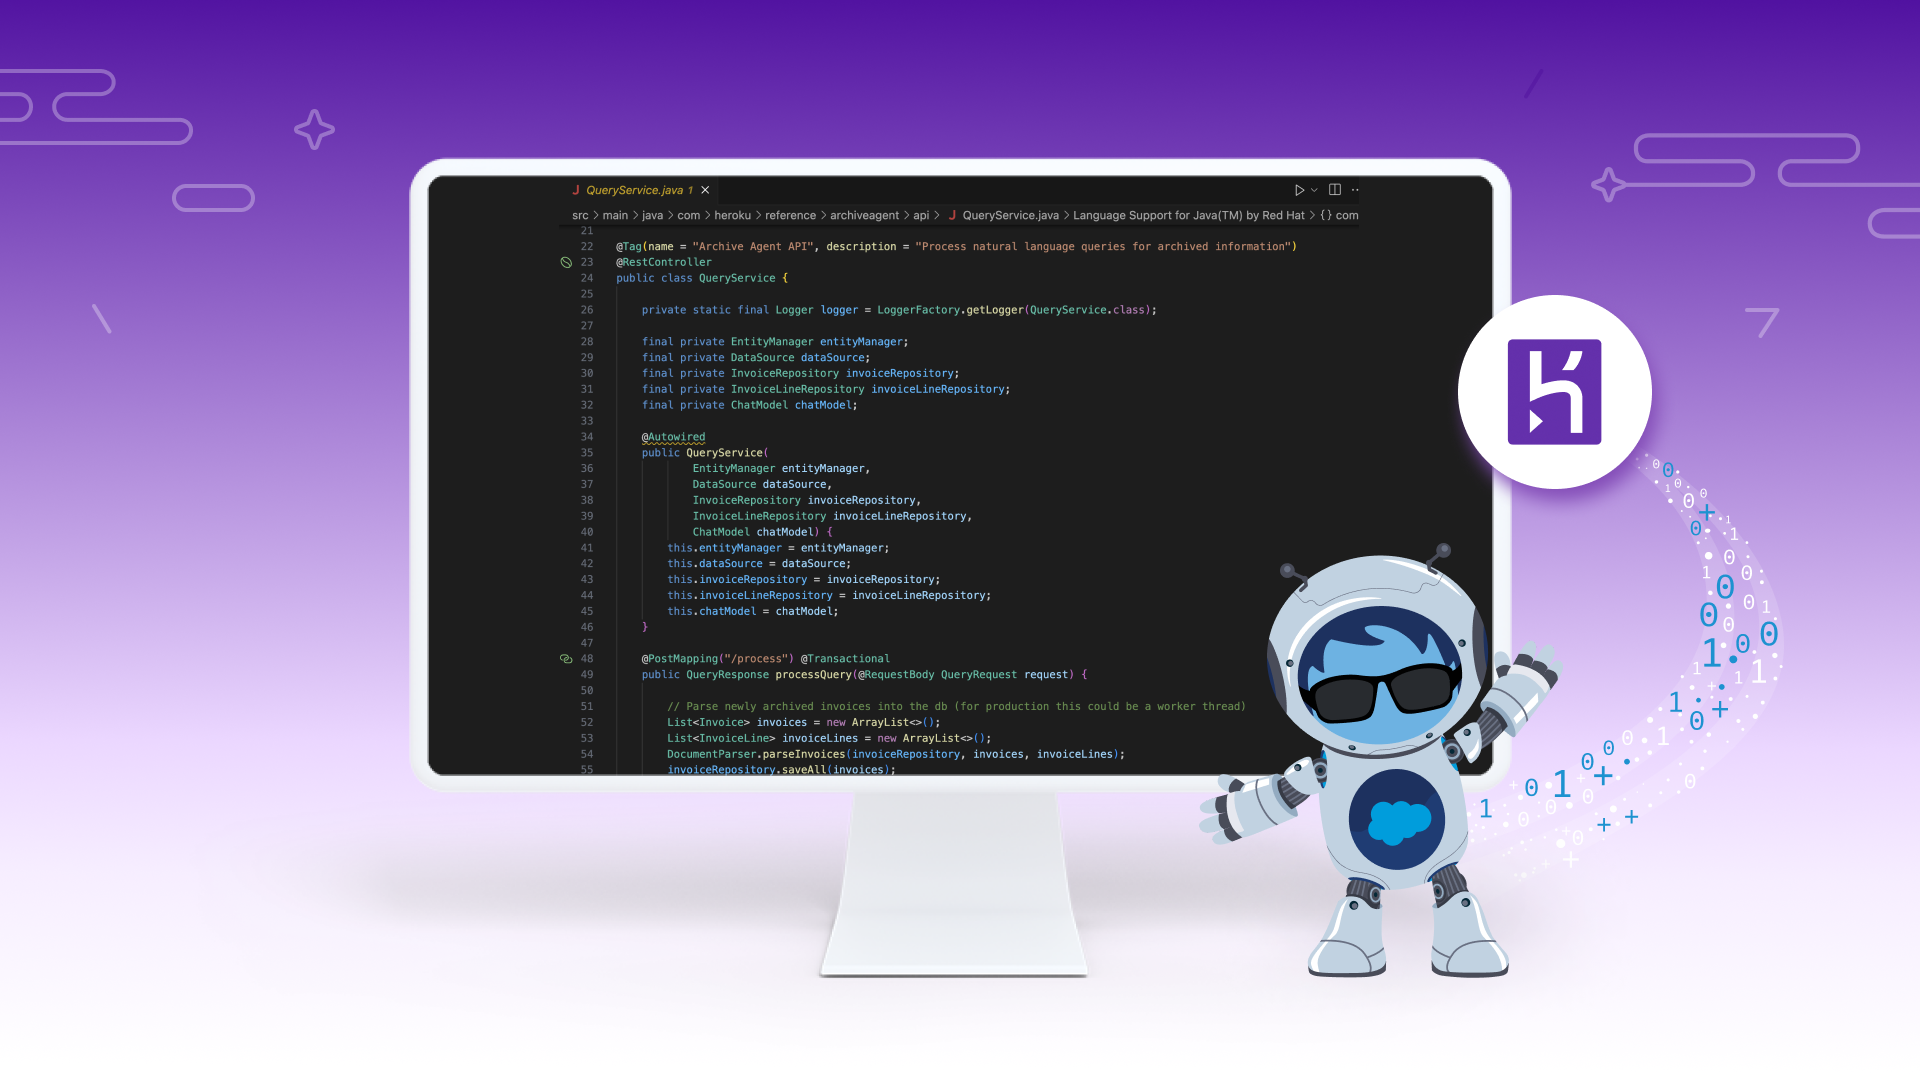
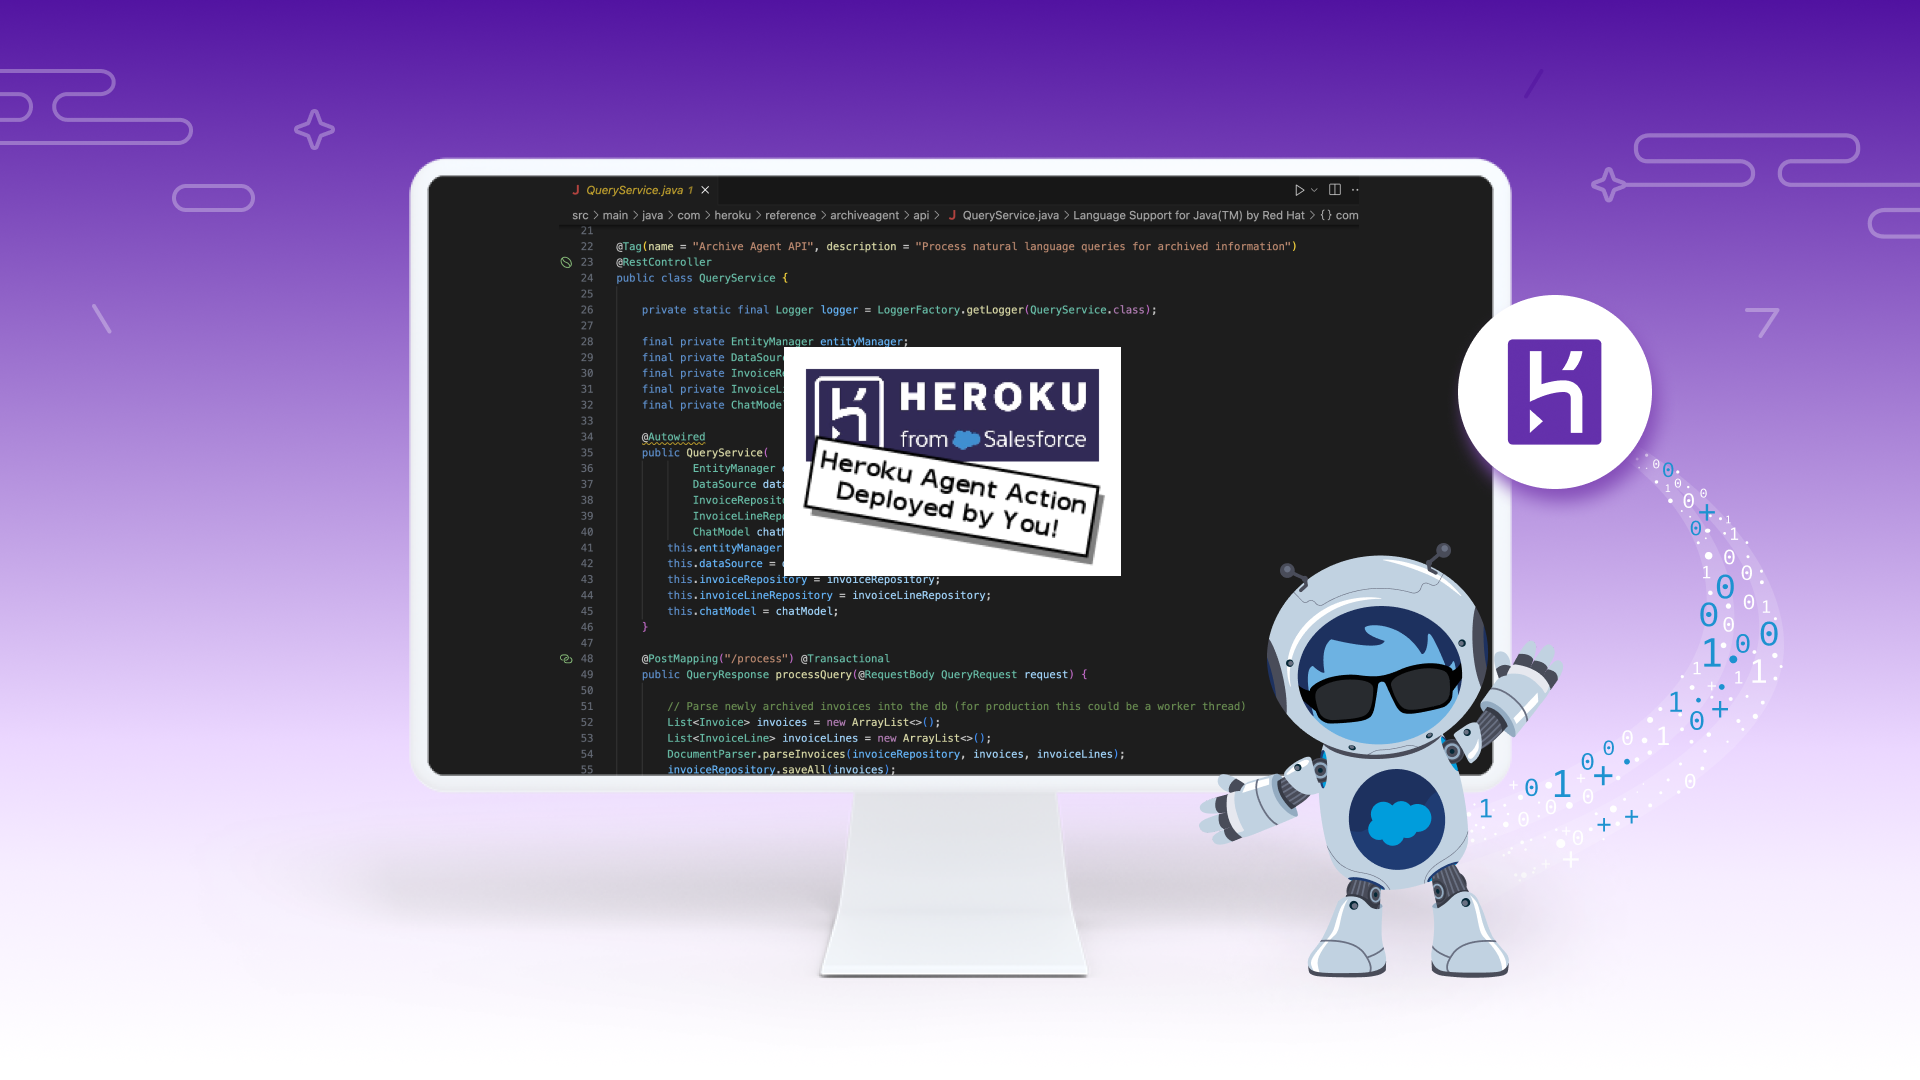
updates

Changed region(s): [[0.4062, 0.3056, 0.5938, 0.55]]

diff --git a/README.md b/README.md
@@ -1,7 +1,9 @@
 Creating Agentforce Custom Actions with Heroku
 ==============================================
 
-This tutorial will guide you through how to configure an Agentforce Action deployed to Heroku within your Salesforce org. This allows Agentforce agents to access powerful custom coded actions written in Python and other languages that take advantage Heroku's fully managed and elastic compute service. 
+This tutorial will guide you through how to configure an Agentforce Action deployed to Heroku within your Salesforce org. This allows Agentforce agents to access powerful custom coded actions written in Python and other languages that take advantage Heroku's fully managed and elastic compute service. At the end of it you will be able to generate your own badge as shown below!
+
+> Ensure you have access to Agentforce by searching for `Agents` in the `Setup` menu. If not, you can create a temporary org by logging into Trailhead and creating a Playground per the instructions [at the top of this module](https://trailhead.salesforce.com/content/learn/projects/quick-start-explore-the-coral-cloud-sample-app/deploy-the-coral-cloud-sample-app) (you do not need to complete the module). Once you have access to the org, locate `Einstein Setup` under the `Setup` menu and enable Einsten, which will also enable Agentforce.
 
 <img src="images/main.png" width="80%" alt="Image description">
 
@@ -12,7 +14,7 @@ The examples in this tutorial are intentially basic to allow you a clean startin
 
 | Example | Demo Video |  | Related Content
 | ------- | ---------- | ---------- | ---------------
-| The **Archive Agent** action demonstrates using Heroku to access and perform complex comput over unstructed archived data using the [Einstein AI LLM Gateway](https://developer.salesforce.com/blogs/2023/08/building-ai-powered-apps-with-llms-and-einstein) to interpret naturla language requests to perform dynamic calculations. | [Link](https://youtu.be/mNgrdf1GX-w)| <img src="images/archiveagent2.png" width="50%" alt="Image description"> | [Blog](https://blog.heroku.com/building-supercharged-agents-heroku-agentforce) [Code](https://github.com/heroku-examples/agentforce-collage-agent)
+| The **Archive Agent** action demonstrates using Heroku to access and perform complex compute over unstructed archived data using AI to interpret natural language requests from the user to perform a wider array of dynamic calculations on the data. | [Link](https://youtu.be/mNgrdf1GX-w)| <img src="images/archiveagent2.png" width="50%" alt="Image description"> | [Blog](https://blog.heroku.com/building-supercharged-agents-heroku-agentforce) [Code](https://github.com/heroku-examples/agentforce-collage-agent)
 | With the **Coral Cloud Collage Agent** we explore how the Coral Cloud Resort invites its guests to browse and book unique experiences throughout their stay using Agentforce. With Heroku, we extend the agents functionality to generate a personalized collage of each guest's adventures, showcasing how custom code deployed on Heroku can create dynamic digital media delivered directly within the Agentforce experience. | [Link](https://www.youtube.com/watch?v=yd97A9GLFUA&t=3s)| ![image](images/collage2.jpg) ![image](images/collage.png) | [Code](https://github.com/heroku-examples/agentforce-collage-agent)
 
 
@@ -21,7 +23,7 @@ Step 1 - Action API URL
 
 This tutorial provides examples in Java and Python on how to code a basic Agentforce action. You can deploy these to your own Heroku account or proceed for now with the predeployed versions we have created for you.
 
-| Language | Predeployed API URL | Predployed API Test Page | Or Deploy your Own to Heroku
+| Language | Predeployed API URL | Predeployed API Test Page | Or Deploy your Own to Heroku
 | -------- | --------------- | ------------------- | -----------
 | Python | [Action API URL](https://agentforce-tutorial-python-7894e9215571.herokuapp.com/) | [Action API Test Page](https://agentforce-tutorial-python-7894e9215571.herokuapp.com/) | Go to this [GitHub Repository](https://github.com/heroku-examples/heroku-agentforce-tutorial-python)
 | Java | [Action API URL](https://agentforce-tutorial-java-fd05948b2c0a.herokuapp.com) | [Action API Test Page](https://agentforce-tutorial-java-fd05948b2c0a.herokuapp.com/swagger-ui/index.html) | Go to this [GitHub Repository](https://github.com/heroku-examples/heroku-agentforce-tutorial-java)
@@ -33,24 +35,136 @@ With the above information you have two paths to take:
 Step 2 - Creating a Named Credential
 ------------------------------------
 
-Bla bla bla
+1. Search for `Named Credentials` under `Setup` and select the `External Credentials` tab and click `New`, completing the dialog as shown.
+
+    <img src="images/step2-1.jpg" width="50%" alt="Image description">
+
+2. Scroll down the next page to the `Principles` section and click `New`, completing the dialog as shown.
+
+    <img src="images/step2-2.jpg" width="50%" alt="Image description">
+
+    > The default password for this tutorial is `agent`.
+
+3. Search for `Named Credentials` under `Setup` and select the 'Named Credentials' tab and click `New`, completing the dialog as shown.
+
+    <img src="images/step2-3.jpg" width="50%" alt="Image description">
+
+    > To obtain the URL value right click the desired `Predeployed API URL` above or use the one given to you after completing your own Heroku deployment. The one shown the screenshot above is the Java predeployment.
 
 Step 3 - Registering the Action API
 -----------------------------------
 
-Bla bla bla
+1. Search for `External Services` under `Setup` and click `Add an External Service` then select `From API Specification` and click `Next`, completing the dialog as shown then `Save & Next`.
+
+    <img src="images/step3-1.jpg" width="50%" alt="Image description">
+
+    > To obtain the Schema shown, open the Swagger page for your deployed Action and click the link in the top left corner of the page this will be `/v3/api-docs` (Java) or `/swagger.json` (Python) and copy paste the entire contents. If you have not modified the code, or are using the predeployments above, you can click [here](https://agentforce-tutorial-java-fd05948b2c0a.herokuapp.com/v3/api-docs) (Java) or [here](https://agentforce-tutorial-python-7894e9215571.herokuapp.com/swagger.json) (Python).
+
+2. Finally on the next page select the `Operation` shown below and click `Next`.
+
+    <img src="images/step3-2.jpg" width="50%" alt="Image description">
+
+3.  Confirm you can see the input and output parameters as shown below and click `Finish`.
+
+    <img src="images/step3-3.jpg" width="50%" alt="Image description">
 
 Step 4 - Assigning Permissions
 ------------------------------
 
-Bla bla bla
+1. Search for `Permission Sets` under `Setup` and click `New` and complete the page as shown, then click `Save`.
+
+    <img src="images/step4-1.jpg" width="50%" alt="Image description">
+
+2. Locate the `External Credential Principle Access` section and edit it such that it appears as shown.
+
+    <img src="images/step4-2.jpg" width="50%" alt="Image description">
+
+3. Finally, assign the permisison set to your current user using the `Manage Assignments` button.
 
 Step 5 - Creating an Agentforce Action
 --------------------------------------
 
-Bla bla bla
+1. Search for `Flows` under `Setup` and click `New Flow`. Click `Start from Scratch` then `Next` and select `Autolaunched Flow (No Trigger)` then click `Create` to open the `Flow Builder`. 
+
+2. From the `Flow Builder`, open the `Toolbox` by clicking the sidebar icon near the top left of the screen. Click `New Resource` and create the following variable resources.
+
+    | Resource Type | API Name | Data Type | Apex Class | Availability Outside the Flow |
+    | ------------- | -------- | --------- | -----------| ----------------------------- |
+    | Variable | AgentActionRequestName | Text | Not Applicable |Available for Input |
+    | Variable | AgentActionResponseMessage | Text | Not Applicable | Available for Output |
+    | Variable | AgentActionRequest | Apex Defined | ExternalService__HerokuAgentAction_AgentRequest | None |
+
+    Your `Flow` should look like this so far.
+
+    <img src="images/step5-1.jpg" width="50%" alt="Image description">
+
+3. Click the `+` icon in the middle of the canvas and select `Action`. In the `Search Actions` sidebar search for `Heroku`, select the `Post Process` action and complete fields as shown.
+
+    <img src="images/step5-2.jpg" width="50%" alt="Image description">
+
+4. Click the `+` icon **before** the `Call Heroku` element on the canvas and select `Assignment` and complete as shown.
+
+    <img src="images/step5-3.jpg" width="50%" alt="Image description">
+
+5. Click the `+` icon **after** the `Call Heroku` element on the canvas and select `Assignment` and complete as shown.
+
+    <img src="images/step5-4.jpg" width="50%" alt="Image description">
+
+6. Finally your `Flow` should look like this.
+
+    <img src="images/step5-5.jpg" width="50%" alt="Image description">
+
+7. Now click `Save` and enter `Heroku Agent Action` and click `Save`, followed by clicking `Activate`.
+
+    Search for `Agent Actions` under the `Setup` menu and click `New Agent Action`, selecting `Flow` as the `Reference Action Type`
+
+    In the `Reference Action` search field search for `Heroku` so that you see the following.
+
+    <img src="images/step5-6.jpg" width="50%" alt="Image description">
+
+8. Complete defining the action as follows and click `Finish`.
+
+    <img src="images/step5-7.jpg" width="50%" alt="Image description">
+
+    | Field | Text |
+    | ----- | ---- |
+    | `Agent Action Instructions` | Use this action to produce a unique Heroku badge with a custom name printed on it |
+    | `AgentActionRequestName Instructions` | Name to be placed on the badge. Do not show the parameter name. |
+    | `AgentActionResponseMessage Instructions` | Confirmation the badge has been created. |
 
 Step 6 - Using Agent Builder
 ----------------------------
 
-Bla bla bla
+1. Search for `Agents` under `Setup` and be sure to toggle to enable `Einstein Copilot for Salesforce`.
+
+2. Click the `Einstein Copilot` link at the bottom of the page to find the `Open in Agent Builder` button.
+
+3. Click the `Deactivate` button in the top right of the screen if present.
+
+4. Click `Topics` and the `General CRM` topic, if the `New Version` button is shown click it.
+
+5. Click `This Topic's Actions` tab and select `Add from Asset Library` from the `New` button drop down.
+
+6. Complete the dialog as shown and click `Finish`
+
+    <img src="images/step6-1.jpg" width="50%" alt="Image description">
+
+7. Finally click the `Activate` button in the top right of the screen.
+
+Step 7 - Testing your Action
+----------------------------
+
+1. Open the `Agent Builder` for `Einstein Copilot`
+
+2. In the `Conversation Preview` enter `Generate my badge with the name Master Builder on it!`
+
+    > You can of course change the name to your own and share your badge with your friends!
+
+    <img src="images/step7-endgame.jpg" width="100%" alt="Image description">
+
+Summary
+-------
+
+Congratulations on deploying your first Heroku powered Agentforce Action! 
+
+We are working to improve and simplify this process so please follow this reposistory to keep informed on updates.
